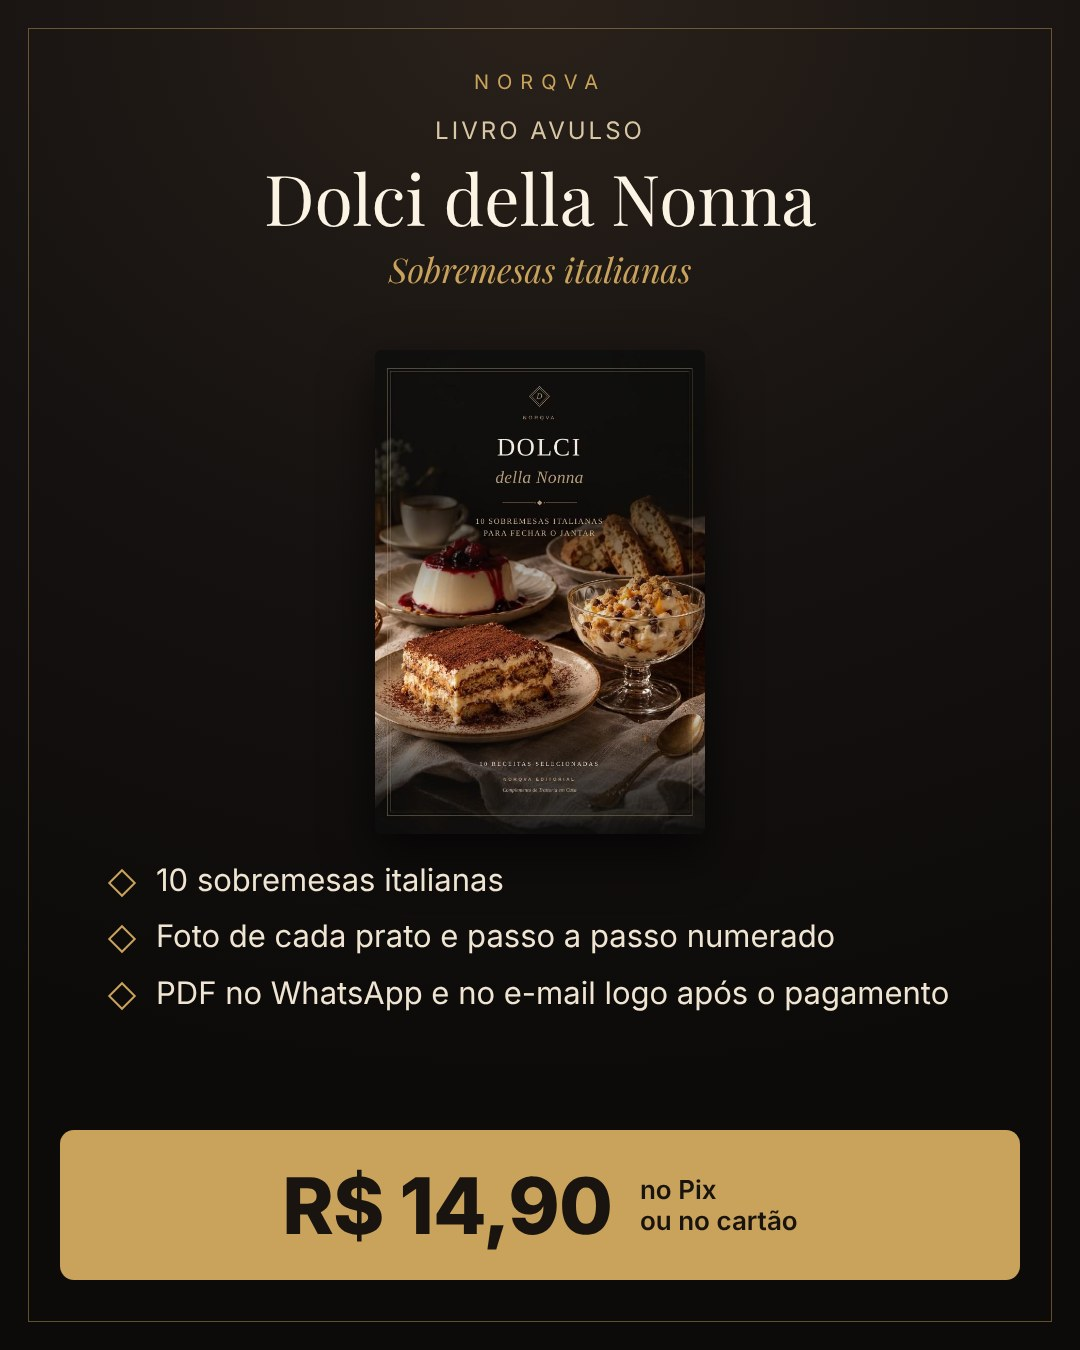
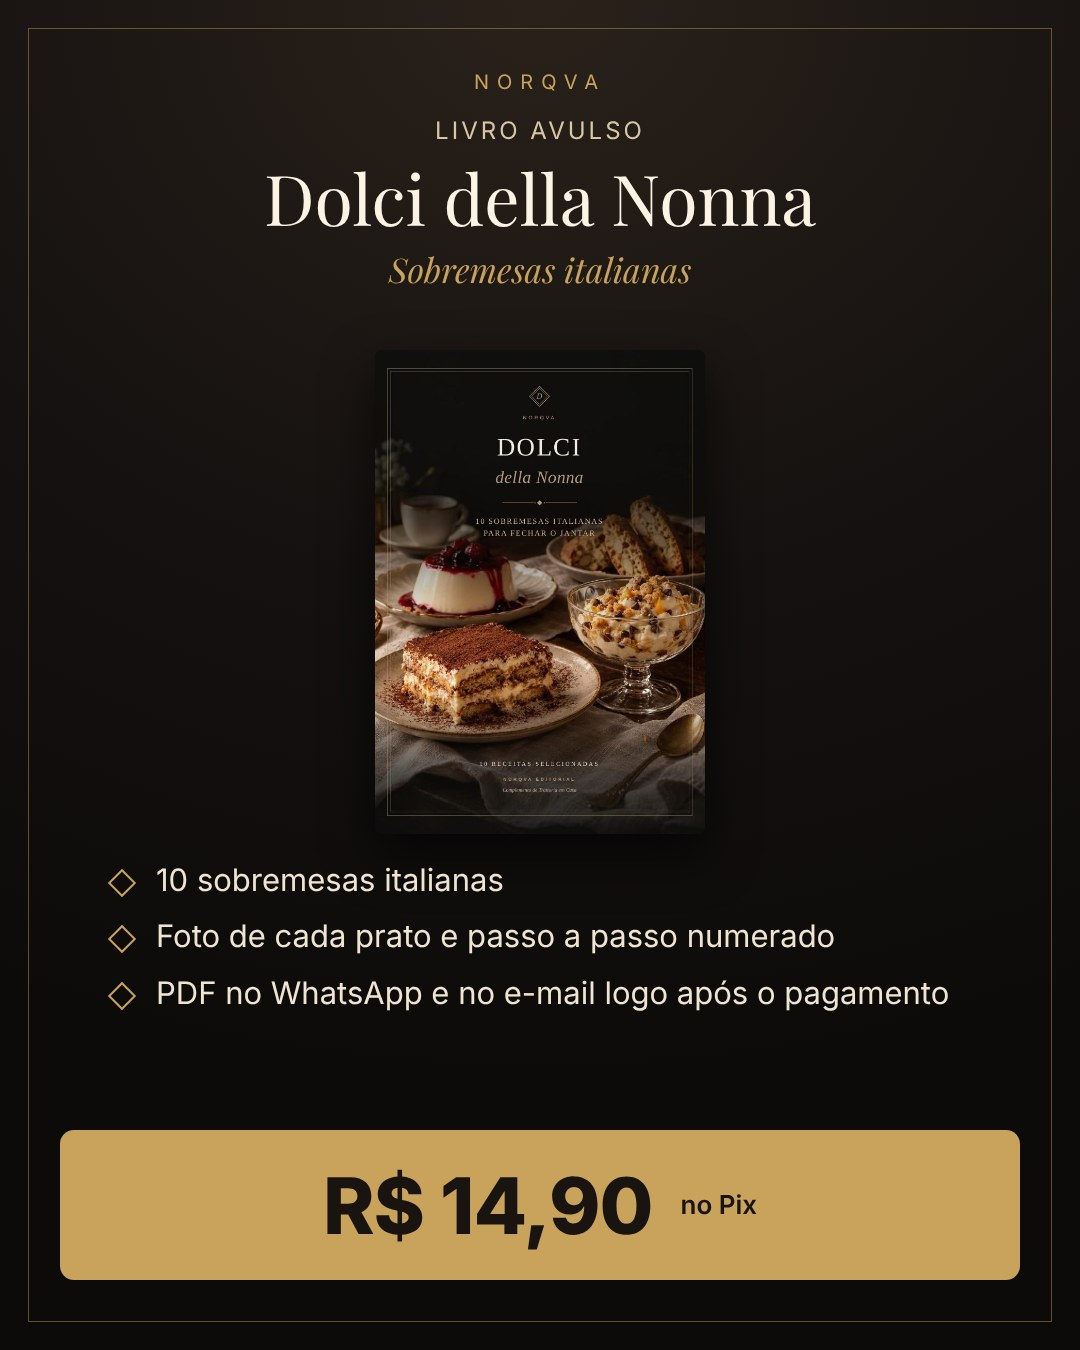
NORQVA-0153: revisão (ordem entre respostas, envio falho, 1ª opção sem imagem, preço cheio e cartão)
Claude-Session: https://claude.ai/code/session_01WWXz5oJUckwY7vTYgMY812

Changed region(s): [[0.2444, 0.8711, 0.7333, 0.9333]]

diff --git a/backend/src/tests/norqva_0153_offer_cards.test.ts b/backend/src/tests/norqva_0153_offer_cards.test.ts
@@ -21,25 +21,32 @@ describe('NORQVA-0153 — regras puras', () => {
   it('as imagens de verdade têm o preço atual das ofertas', () => {
     expect(OFFER_CARDS['OFF-000016'].pix).toBe(47);
     expect(OFFER_CARDS['OFF-000010'].pix).toBe(29.9);
-    expect(cardFor('OFF-000016', 47)).not.toBeNull();
-    expect(cardFor('off-000016', 47)).not.toBeNull();
-    // preço mudou: a imagem não sai (estaria com preço errado)
-    expect(cardFor('OFF-000016', 49.9)).toBeNull();
-    expect(cardFor('OFF-999999', 10)).toBeNull();
+    expect(cardFor('OFF-000016', 47, 94.5, true)).not.toBeNull();
+    expect(cardFor('off-000016', 47, 94.5, true)).not.toBeNull();
+    // preço, preço cheio ou cartão diferentes do que está escrito: a imagem não sai
+    expect(cardFor('OFF-000016', 49.9, 94.5, true)).toBeNull();
+    expect(cardFor('OFF-000016', 47, 99, true)).toBeNull();
+    expect(cardFor('OFF-000016', 47, 94.5, false)).toBeNull();
+    // Dolci não aceita cartão: a imagem diz só "no Pix"
+    expect(cardFor('OFF-000005', 14.9, null, false)).not.toBeNull();
+    expect(cardFor('OFF-999999', 10, null, true)).toBeNull();
   });
 
   it('ordem: recomendada, depois alternativa, avulso só depois das duas ou a pedido', () => {
-    const base = { featured: 'COL', alternative: 'KIT', askedIndividual: false };
-    expect(cardOrderCheck('COL', { ...base, sent: new Set() })).toEqual({ ok: true, step: 'FEATURED' });
-    expect(cardOrderCheck('KIT', { ...base, sent: new Set() }).ok).toBe(false);
-    expect(cardOrderCheck('LIVRO', { ...base, sent: new Set() }).ok).toBe(false);
-    expect(cardOrderCheck('KIT', { ...base, sent: new Set(['COL']) })).toEqual({ ok: true, step: 'ALTERNATIVE' });
-    expect(cardOrderCheck('LIVRO', { ...base, sent: new Set(['COL']) }).ok).toBe(false);
-    expect(cardOrderCheck('LIVRO', { ...base, sent: new Set(['COL', 'KIT']) })).toEqual({ ok: true, step: 'INDIVIDUAL' });
-    expect(cardOrderCheck('LIVRO', { ...base, askedIndividual: true, sent: new Set() })).toEqual({ ok: true, step: 'INDIVIDUAL' });
-    expect(cardOrderCheck('COL', { ...base, sent: new Set(['COL']) }).ok).toBe(false);
+    const base = { featured: 'COL', alternative: 'KIT', askedIndividual: false, queued: new Set<string>() };
+    expect(cardOrderCheck('COL', { ...base, shown: new Set() })).toEqual({ ok: true, step: 'FEATURED' });
+    expect(cardOrderCheck('KIT', { ...base, shown: new Set() }).ok).toBe(false);
+    expect(cardOrderCheck('LIVRO', { ...base, shown: new Set() }).ok).toBe(false);
+    expect(cardOrderCheck('KIT', { ...base, shown: new Set(['COL']) })).toEqual({ ok: true, step: 'ALTERNATIVE' });
+    expect(cardOrderCheck('LIVRO', { ...base, shown: new Set(['COL']) }).ok).toBe(false);
+    expect(cardOrderCheck('LIVRO', { ...base, shown: new Set(['COL', 'KIT']) })).toEqual({ ok: true, step: 'INDIVIDUAL' });
+    expect(cardOrderCheck('LIVRO', { ...base, askedIndividual: true, shown: new Set() })).toEqual({ ok: true, step: 'INDIVIDUAL' });
+    expect(cardOrderCheck('COL', { ...base, shown: new Set(['COL']) }).ok).toBe(false);
+    // na MESMA resposta: a 1ª na fila não libera a 2ª (o cliente precisa responder antes)
+    expect(cardOrderCheck('KIT', { ...base, shown: new Set(), queued: new Set(['COL']) }).ok).toBe(false);
+    expect(cardOrderCheck('COL', { ...base, shown: new Set(), queued: new Set(['COL']) }).ok).toBe(false);
     // sem recomendada: a alternativa e os avulsos não esperam por ela
-    expect(cardOrderCheck('LIVRO', { featured: null, alternative: null, askedIndividual: false, sent: new Set() }).ok).toBe(true);
+    expect(cardOrderCheck('LIVRO', { featured: null, alternative: null, askedIndividual: false, shown: new Set(), queued: new Set() }).ok).toBe(true);
   });
 
   it('o prompt manda uma oferta por vez, pela ferramenta, acima das condições', () => {
@@ -110,21 +117,22 @@ describe.sequential('NORQVA-0153 — atendente envia as imagens na ordem', () =>
       [productId, `PRD-F${tag}`, brandId]
     );
     await pool.query(
-      `INSERT INTO offers (id, human_id, name, product_id, price, promotional_price, status, description, is_demo, data_provenance, created_at)
-       VALUES ($1, $2, 'Trattoria em Casa', $3, 19.90, NULL, 'ATIVA', 'Livro', false, 'COMMERCIAL_PRODUCTION', '2026-09-01T12:00:00Z'),
-              ($4, $5, 'Kit Trattoria Completo — 5 livros', $3, 94.50, 29.90, 'ATIVA', 'Os 5 livros', false, 'COMMERCIAL_PRODUCTION', '2026-10-01T12:00:00Z')`,
+      `INSERT INTO offers (id, human_id, name, product_id, price, promotional_price, status, description, is_demo, data_provenance, created_at,
+                           card_enabled, card_max_installments, card_free_installments, card_interest_monthly)
+       VALUES ($1, $2, 'Trattoria em Casa', $3, 19.90, NULL, 'ATIVA', 'Livro', false, 'COMMERCIAL_PRODUCTION', '2026-09-01T12:00:00Z', TRUE, 10, 1, 2.99),
+              ($4, $5, 'Kit Trattoria Completo — 5 livros', $3, 94.50, 29.90, 'ATIVA', 'Os 5 livros', false, 'COMMERCIAL_PRODUCTION', '2026-10-01T12:00:00Z', TRUE, 10, 1, 2.99)`,
       [bookId, bookCode, productId, kitId, kitCode]
     );
     await pool.query(
       `INSERT INTO offers (id, human_id, name, product_id, price, promotional_price, status, description, is_demo, data_provenance, created_at,
-                           attendant_featured, attendant_alternative_offer_id)
-       VALUES ($1, $2, 'Coleção Trattoria Completa 0153', $3, 94.50, 47.00, 'ATIVA', 'Os 5 livros e o bônus', false, 'COMMERCIAL_PRODUCTION', '2026-10-26T12:00:00Z', TRUE, $4)`,
+                           attendant_featured, attendant_alternative_offer_id, card_enabled, card_max_installments, card_free_installments, card_interest_monthly)
+       VALUES ($1, $2, 'Coleção Trattoria Completa 0153', $3, 94.50, 47.00, 'ATIVA', 'Os 5 livros e o bônus', false, 'COMMERCIAL_PRODUCTION', '2026-10-26T12:00:00Z', TRUE, $4, TRUE, 10, 1, 2.99)`,
       [colId, colCode, productId, kitId]
     );
     setOfferCardsForTests({
-      [colCode]: { path: '/images/whatsapp/off-000016.jpg', pix: 47, caption: 'Coleção 0153' },
-      [kitCode]: { path: '/images/whatsapp/off-000010.jpg', pix: 29.9, caption: 'Kit 0153' },
-      [bookCode]: { path: '/images/whatsapp/off-000001.jpg', pix: 19.9, caption: 'Livro 0153' }
+      [colCode]: { path: '/images/whatsapp/off-000016.jpg', pix: 47, from: 94.5, card: true, caption: 'Coleção 0153' },
+      [kitCode]: { path: '/images/whatsapp/off-000010.jpg', pix: 29.9, from: 94.5, card: true, caption: 'Kit 0153' },
+      [bookCode]: { path: '/images/whatsapp/off-000001.jpg', pix: 19.9, from: null, card: true, caption: 'Livro 0153' }
     });
     setWhatsAppProviderForTests(provider);
     const r = await request(app).post('/api/whatsapp/numbers').set('Authorization', `Bearer ${admin}`).send({ label: 'T0153 Atendimento', brand_id: brandId });
@@ -199,6 +207,29 @@ describe.sequential('NORQVA-0153 — atendente envia as imagens na ordem', () =>
     ];
     await processConversation(pool, conv, []);
     expect(captions()).toEqual(['Livro 0153']);
+  });
+
+  it('na mesma resposta só vai a 1ª opção, mesmo que a IA tente mandar o kit junto', async () => {
+    const conv = await says('5531922220004@s.whatsapp.net', 'Quais opções vocês têm?');
+    script = [
+      { content: null, tool_calls: [card('m1', colCode), card('m2', kitCode)] },
+      { content: 'Olha a nossa opção mais completa 👇', tool_calls: [] }
+    ];
+    await processConversation(pool, conv, []);
+    expect(captions()).toEqual(['Coleção 0153']);
+  });
+
+  it('imagem que falhou no envio não conta como mostrada', async () => {
+    const jid = '5531922220005@s.whatsapp.net';
+    let conv = await says(jid, 'Oi');
+    (provider.sendImage as any).mockImplementationOnce(async () => { throw new Error('falhou'); });
+    script = [{ content: null, tool_calls: [card('f1', colCode)] }, { content: 'Olha 👇', tool_calls: [] }];
+    await processConversation(pool, conv, []);
+    (provider.sendImage as any).mockClear();
+    conv = await says(jid, 'Não chegou a imagem');
+    script = [{ content: null, tool_calls: [card('f2', kitCode), card('f3', colCode)] }, { content: 'Aqui 👇', tool_calls: [] }];
+    await processConversation(pool, conv, []);
+    expect(captions()).toEqual(['Coleção 0153']);
   });
 
   it('cliente pede o preço de um livro avulso logo de cara: sai com customer_asked_individual', async () => {

diff --git a/backend/src/services/whatsapp/offerCards.ts b/backend/src/services/whatsapp/offerCards.ts
@@ -9,18 +9,23 @@ export interface OfferCard {
   path: string;
   /** preço do Pix escrito na imagem */
   pix: number;
-  /** legenda que o cliente vê embaixo da imagem (também identifica o envio no histórico) */
+  /** preço cheio riscado na imagem ("de R$ ..."), ou null se a imagem não mostra */
+  from: number | null;
+  /** a imagem diz "ou no cartão" (só vale se a oferta aceita cartão) */
+  card: boolean;
+  /** legenda que o cliente vê embaixo da imagem (também identifica o envio no histórico: mudar a legenda faz as
+   *  conversas antigas não reconhecerem mais o envio, e a imagem pode sair de novo) */
   caption: string;
 }
 
 const DEFAULT_CARDS: Record<string, OfferCard> = {
-  'OFF-000016': { path: '/images/whatsapp/off-000016.jpg', pix: 47, caption: 'Coleção Trattoria Completa: 5 livros + bônus' },
-  'OFF-000010': { path: '/images/whatsapp/off-000010.jpg', pix: 29.9, caption: 'Kit Trattoria Completo: 5 livros' },
-  'OFF-000001': { path: '/images/whatsapp/off-000001.jpg', pix: 19.9, caption: 'Trattoria em Casa (livro avulso)' },
-  'OFF-000005': { path: '/images/whatsapp/off-000005.jpg', pix: 14.9, caption: 'Dolci della Nonna (livro avulso)' },
-  'OFF-000007': { path: '/images/whatsapp/off-000007.jpg', pix: 19.9, caption: 'Pães & Fermentação Natural (livro avulso)' },
-  'OFF-000008': { path: '/images/whatsapp/off-000008.jpg', pix: 19.9, caption: 'Antipasti & Aperitivo (livro avulso)' },
-  'OFF-000009': { path: '/images/whatsapp/off-000009.jpg', pix: 19.9, caption: 'Risotos & Polentas (livro avulso)' }
+  'OFF-000016': { path: '/images/whatsapp/off-000016.jpg', pix: 47, from: 94.5, card: true, caption: 'Coleção Trattoria Completa: 5 livros + bônus' },
+  'OFF-000010': { path: '/images/whatsapp/off-000010.jpg', pix: 29.9, from: 94.5, card: true, caption: 'Kit Trattoria Completo: 5 livros' },
+  'OFF-000001': { path: '/images/whatsapp/off-000001.jpg', pix: 19.9, from: null, card: true, caption: 'Trattoria em Casa (livro avulso)' },
+  'OFF-000005': { path: '/images/whatsapp/off-000005.jpg', pix: 14.9, from: null, card: false, caption: 'Dolci della Nonna (livro avulso)' },
+  'OFF-000007': { path: '/images/whatsapp/off-000007.jpg', pix: 19.9, from: null, card: true, caption: 'Pães & Fermentação Natural (livro avulso)' },
+  'OFF-000008': { path: '/images/whatsapp/off-000008.jpg', pix: 19.9, from: null, card: true, caption: 'Antipasti & Aperitivo (livro avulso)' },
+  'OFF-000009': { path: '/images/whatsapp/off-000009.jpg', pix: 19.9, from: null, card: true, caption: 'Risotos & Polentas (livro avulso)' }
 };
 
 export let OFFER_CARDS: Record<string, OfferCard> = DEFAULT_CARDS;
@@ -31,19 +36,25 @@ export function setOfferCardsForTests(cards: Record<string, OfferCard> | null) {
 
 export const cardLabel = (code: string) => `[imagem] ${OFFER_CARDS[code]?.caption || ''}`;
 
-/** A imagem desta oferta pode ser enviada: existe e o preço do Pix escrito nela é o do catálogo. */
-export function cardFor(code: string | null | undefined, pix: number | null | undefined): OfferCard | null {
+/**
+ * A imagem desta oferta pode ser enviada: existe e o que está escrito nela vale hoje (preço do Pix, preço cheio
+ * riscado e "ou no cartão"). Qualquer diferença = sem imagem (o atendente apresenta em texto).
+ */
+export function cardFor(code: string | null | undefined, pix: number | null | undefined, from: number | null | undefined = null, cardEnabled = true): OfferCard | null {
   const card = code ? OFFER_CARDS[String(code).toUpperCase()] : undefined;
-  if (!card || typeof pix !== 'number' || !Number.isFinite(pix)) return null;
-  return Math.round(card.pix * 100) === Math.round(pix * 100) ? card : null;
+  if (!card || typeof pix !== 'number' || !Number.isFinite(pix) || card.card !== cardEnabled) return null;
+  const cents = (n: number | null | undefined) => (typeof n === 'number' && Number.isFinite(n) ? Math.round(n * 100) : null);
+  if (cents(card.pix) !== cents(pix)) return null;
+  if (cents(card.from) !== cents(from ?? null)) return null;
+  return card;
 }
 
-/** Códigos das ofertas cuja imagem já foi enviada nesta conversa (pelo texto gravado no histórico). */
+/** Códigos das ofertas cuja imagem já foi enviada nesta conversa (pelo texto gravado no histórico; envio que falhou não conta). */
 export async function cardsSent(pool: Pool, convId: string): Promise<Set<string>> {
   const codes = Object.keys(OFFER_CARDS);
   const r = await pool.query(
     `SELECT DISTINCT body FROM whatsapp_messages
-     WHERE conversation_id = $1 AND author = 'BOT' AND kind = 'IMAGE' AND body = ANY($2::text[])`,
+     WHERE conversation_id = $1 AND author = 'BOT' AND kind = 'IMAGE' AND send_status = 'OK' AND body = ANY($2::text[])`,
     [convId, codes.map(cardLabel)]
   );
   const bodies = new Set(r.rows.map((x: any) => String(x.body)));
@@ -53,22 +64,28 @@ export async function cardsSent(pool: Pool, convId: string): Promise<Set<string>
 export type CardStep = 'FEATURED' | 'ALTERNATIVE' | 'INDIVIDUAL';
 
 /**
- * Pode enviar a imagem desta oferta agora? `featured`/`alternative` = códigos do catálogo (ou null se não há),
- * `sent` = imagens já enviadas (inclusive nesta resposta). Devolve o passo ou o motivo da recusa.
+ * Pode enviar a imagem desta oferta agora? `featured`/`alternative` = códigos do catálogo (ou null se não há).
+ * `shown` = ofertas já mostradas ao cliente em respostas ANTERIORES (a ordem depende de o cliente ter respondido
+ * depois delas); `queued` = imagens já na fila desta resposta (só para não repetir).
  */
 export function cardOrderCheck(
   code: string,
-  ctx: { featured: string | null; alternative: string | null; sent: Set<string>; askedIndividual: boolean }
+  ctx: { featured: string | null; alternative: string | null; shown: Set<string>; queued: Set<string>; askedIndividual: boolean }
 ): { ok: true; step: CardStep } | { ok: false; error: string } {
-  if (ctx.sent.has(code)) return { ok: false, error: 'A imagem desta oferta já foi enviada acima. Não reenvie: responda em texto.' };
+  if (ctx.shown.has(code) || ctx.queued.has(code)) return { ok: false, error: 'A imagem desta oferta já foi enviada. Não reenvie: responda em texto.' };
   if (code === ctx.featured) return { ok: true, step: 'FEATURED' };
   if (code === ctx.alternative) {
-    if (ctx.featured && !ctx.sent.has(ctx.featured)) {
-      return { ok: false, error: `Envie primeiro a imagem da oferta recomendada (código ${ctx.featured}). A alternativa só vai se o cliente não pedir para pagar a recomendada.` };
+    if (ctx.featured && !ctx.shown.has(ctx.featured)) {
+      return {
+        ok: false,
+        error: ctx.queued.has(ctx.featured)
+          ? 'A 1ª opção vai nesta resposta: espere o cliente responder. A 2ª opção só vai se ele não pedir para pagar a 1ª.'
+          : `Mostre primeiro a oferta recomendada (código ${ctx.featured}). A 2ª opção só vai se o cliente não pedir para pagar a recomendada.`
+      };
     }
     return { ok: true, step: 'ALTERNATIVE' };
   }
-  const kitsShown = (!ctx.featured || ctx.sent.has(ctx.featured)) && (!ctx.alternative || ctx.sent.has(ctx.alternative));
+  const kitsShown = (!ctx.featured || ctx.shown.has(ctx.featured)) && (!ctx.alternative || ctx.shown.has(ctx.alternative));
   if (kitsShown || ctx.askedIndividual) return { ok: true, step: 'INDIVIDUAL' };
   return {
     ok: false,

diff --git a/backend/src/services/whatsapp/attendant.ts b/backend/src/services/whatsapp/attendant.ts
@@ -184,7 +184,7 @@ export async function loadCatalog(pool: Pool, brands: string | string[] | null) 
       // NORQVA-0123: qual conjunto de fotos de amostra vale para este item (null = sem fotos)
       sample: sampleKeyFor({ name: o.name, product_name: o.product_name, collection_key: o.collection_key }),
       // NORQVA-0153: imagem da oferta com conteúdo e preço (só quando o preço escrito nela é o do catálogo)
-      offerCard: !!cardFor(o.human_id, pix),
+      offerCard: !!cardFor(o.human_id, pix, from, !!card),
       brandId: (o.product_brand_id ? String(o.product_brand_id) : null) as string | null,
       brandName: (o.product_brand_name ? String(o.product_brand_name) : null) as string | null,
       pix,
@@ -240,6 +240,7 @@ export function catalogText(catalog: Awaited<ReturnType<typeof loadCatalog>>, gr
   for (const c of catalog) {
     if (c.featured && c.alternativeCode && catalog.some(x => x.code === c.alternativeCode)) alternativeOf.set(c.alternativeCode, c.code);
   }
+  const hasFeatured = catalog.some(x => x.featured);
   return catalog.map(c => {
     const lines = [
       `- Código ${c.code}: ${c.name}${c.featured ? ' [RECOMENDADO]' : ''}`,
@@ -256,7 +257,6 @@ export function catalogText(catalog: Awaited<ReturnType<typeof loadCatalog>>, gr
     if (c.description) lines.push(`  Sobre: ${c.description}`);
     if (c.bonus) lines.push(`  Bônus: ${c.bonus}`);
     // NORQVA-0138: destaque e alternativa vêm do cadastro da oferta (nada de texto fixo por produto)
-    const hasFeatured = catalog.some(x => x.featured);
     if (c.featured) {
       const alt = c.alternativeCode && catalog.find(x => x.code === c.alternativeCode);
       lines.push(
@@ -649,18 +649,31 @@ async function toolSamples(ctx: Ctx, args: any) {
 async function toolOfferCard(ctx: Ctx, args: any) {
   const offer = findOffer(ctx, args?.offer_code);
   if (!offer) return { ok: false, error: 'Produto não está no catálogo deste número.' };
-  const card = cardFor(offer.code, offer.pix);
+  const cardOf = (o: { code: string; pix: number; from: number | null; card: any }) => cardFor(o.code, o.pix, o.from, !!o.card);
+  const card = cardOf(offer);
   if (!card) return { ok: false, error: 'Não há imagem desta oferta com o preço atual. Apresente só esta oferta em texto, com o preço do catálogo.' };
-  const withCard = (code: string | null | undefined) => {
-    const o = code ? ctx.catalog.find(x => x.code === code) : null;
-    return o && cardFor(o.code, o.pix) ? o.code : null;
-  };
-  const featuredItem = ctx.catalog.find(x => x.featured && (!offer.brandId || x.brandId === offer.brandId));
-  const featured = withCard(featuredItem?.code);
-  const alternative = withCard(featuredItem?.alternativeCode);
-  const sent = await cardsSent(ctx.pool, ctx.conv.id);
-  for (const c of ctx.cardsQueued || []) sent.add(c);
-  const check = cardOrderCheck(offer.code, { featured, alternative, sent, askedIndividual: args?.customer_asked_individual === true });
+  const featuredItem = ctx.catalog.find(x => x.featured && (!offer.brandId || x.brandId === offer.brandId)) || null;
+  const altItem = featuredItem?.alternativeCode ? ctx.catalog.find(x => x.code === featuredItem.alternativeCode) || null : null;
+  // mostrado em resposta anterior: imagem entregue, ou (oferta sem imagem válida) já houve resposta do atendente
+  // depois da qual ela devia ter sido apresentada em texto (1 resposta para a 1ª opção, 2 para a 2ª)
+  const shown = await cardsSent(ctx.pool, ctx.conv.id);
+  const needsText = [featuredItem && !cardOf(featuredItem) ? featuredItem.code : null, altItem && !cardOf(altItem) ? altItem.code : null];
+  if (needsText.some(Boolean)) {
+    const r = await ctx.pool.query(
+      `SELECT COUNT(*)::int AS n FROM whatsapp_messages WHERE conversation_id = $1 AND author = 'BOT' AND kind = 'TEXT' AND send_status = 'OK'`,
+      [ctx.conv.id]
+    );
+    const replies = Number(r.rows[0]?.n || 0);
+    if (needsText[0] && replies >= 1) shown.add(needsText[0]);
+    if (needsText[1] && replies >= 2 && featuredItem && shown.has(featuredItem.code)) shown.add(needsText[1]);
+  }
+  const check = cardOrderCheck(offer.code, {
+    featured: featuredItem?.code || null,
+    alternative: altItem?.code || null,
+    shown,
+    queued: new Set(ctx.cardsQueued || []),
+    askedIndividual: args?.customer_asked_individual === true
+  });
   if (!check.ok) return { ok: false, error: check.error };
   const loaded = await loadSampleImage(card.path).catch(() => null);
   if (!loaded) return { ok: false, error: 'Não consegui carregar a imagem agora. Apresente só esta oferta em texto, com o preço do catálogo.' };

diff --git a/norqva-ai/produtos/whatsapp_cards/build_cards.py b/norqva-ai/produtos/whatsapp_cards/build_cards.py
@@ -34,7 +34,7 @@ CARDS = {
                        old=None, price="19,90", badge=None),
     "OFF-000005": dict(kicker="Livro avulso", title="Dolci della Nonna", sub="Sobremesas italianas", covers=[DOLCI],
                        bullets=["10 sobremesas italianas", "Foto de cada prato e passo a passo numerado", "PDF no WhatsApp e no e-mail logo após o pagamento"],
-                       old=None, price="14,90", badge=None),
+                       old=None, price="14,90", badge=None, pix_only=True),
     "OFF-000007": dict(kicker="Livro avulso", title="Pães & Fermentação Natural", sub="Pães italianos em casa", covers=[PAES],
                        bullets=["11 pães italianos e o fermento natural", "Foto de cada receita e passo a passo numerado", "PDF no WhatsApp e no e-mail logo após o pagamento"],
                        old=None, price="19,90", badge=None),
@@ -101,7 +101,7 @@ li:before{{content:"";position:absolute;left:-44px;top:13px;width:16px;height:16
 </style></head><body><div class="frame"></div>
 <div class="top"><div class="brand">NORQVA</div><div class="kicker">{c['kicker']}</div><h1>{c['title']}</h1><div class="sub">{c['sub']}</div></div>
 {badge}{covers_html(c['covers'])}<ul>{bullets}</ul>
-<div class="price">{old}<div class="now">R$ {c['price']}</div><div class="how">no Pix<br>ou no cartão</div></div>
+<div class="price">{old}<div class="now">R$ {c['price']}</div><div class="how">{'no Pix' if c.get('pix_only') else 'no Pix<br>ou no cartão'}</div></div>
 </body></html>"""
 
 

diff --git a/norqva-ai/tasks/NORQVA-0153.md b/norqva-ai/tasks/NORQVA-0153.md
@@ -21,7 +21,11 @@ Na conversa da Alba (29/10 20h30) o atendente listou as 7 ofertas com preço em 
 
 ## Revisão independente
 
-(pendente)
+Subagente (29/10): três bloqueantes aplicados.
+- A ordem valia dentro da mesma resposta (a imagem na fila liberava a próxima): agora a 2ª opção e os avulsos dependem só do que foi mostrado em respostas anteriores (o cliente precisa responder antes); a fila só evita repetir.
+- Envio que falhou contava como mostrado: `cardsSent` só conta `send_status = 'OK'`.
+- 1ª opção sem imagem válida liberava tudo: a ordem usa a 1ª opção do catálogo mesmo sem imagem; sem imagem, ela conta como mostrada depois de uma resposta do atendente (a 2ª, depois de duas).
+Menores aplicados: a imagem só sai se o preço cheio riscado e o "ou no cartão" também baterem (Dolci não aceita cartão: imagem diz só "no Pix"); nota sobre a legenda identificar o envio. Fica registrado: a IA pode adiantar um avulso marcando `customer_asked_individual` (inevitável); as condições de atendimento gravadas em 24/10 ("kit de 5 primeiro") são passadas por cima pela regra fixa 6b.
 
 ## Execução
 
